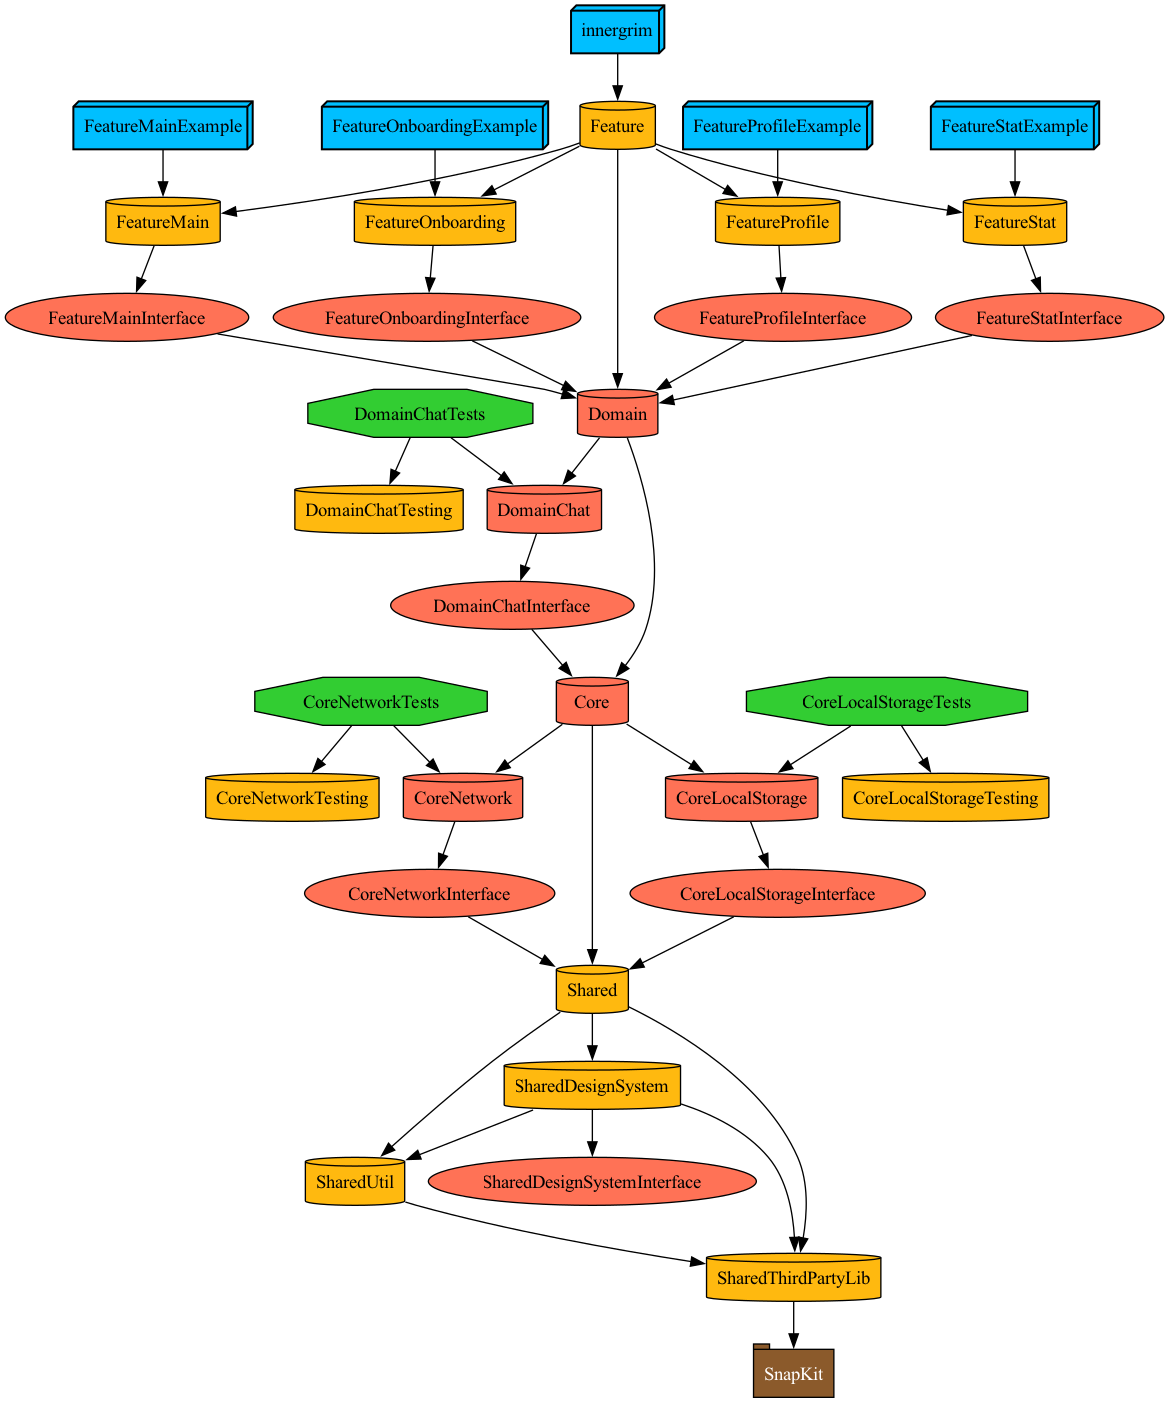
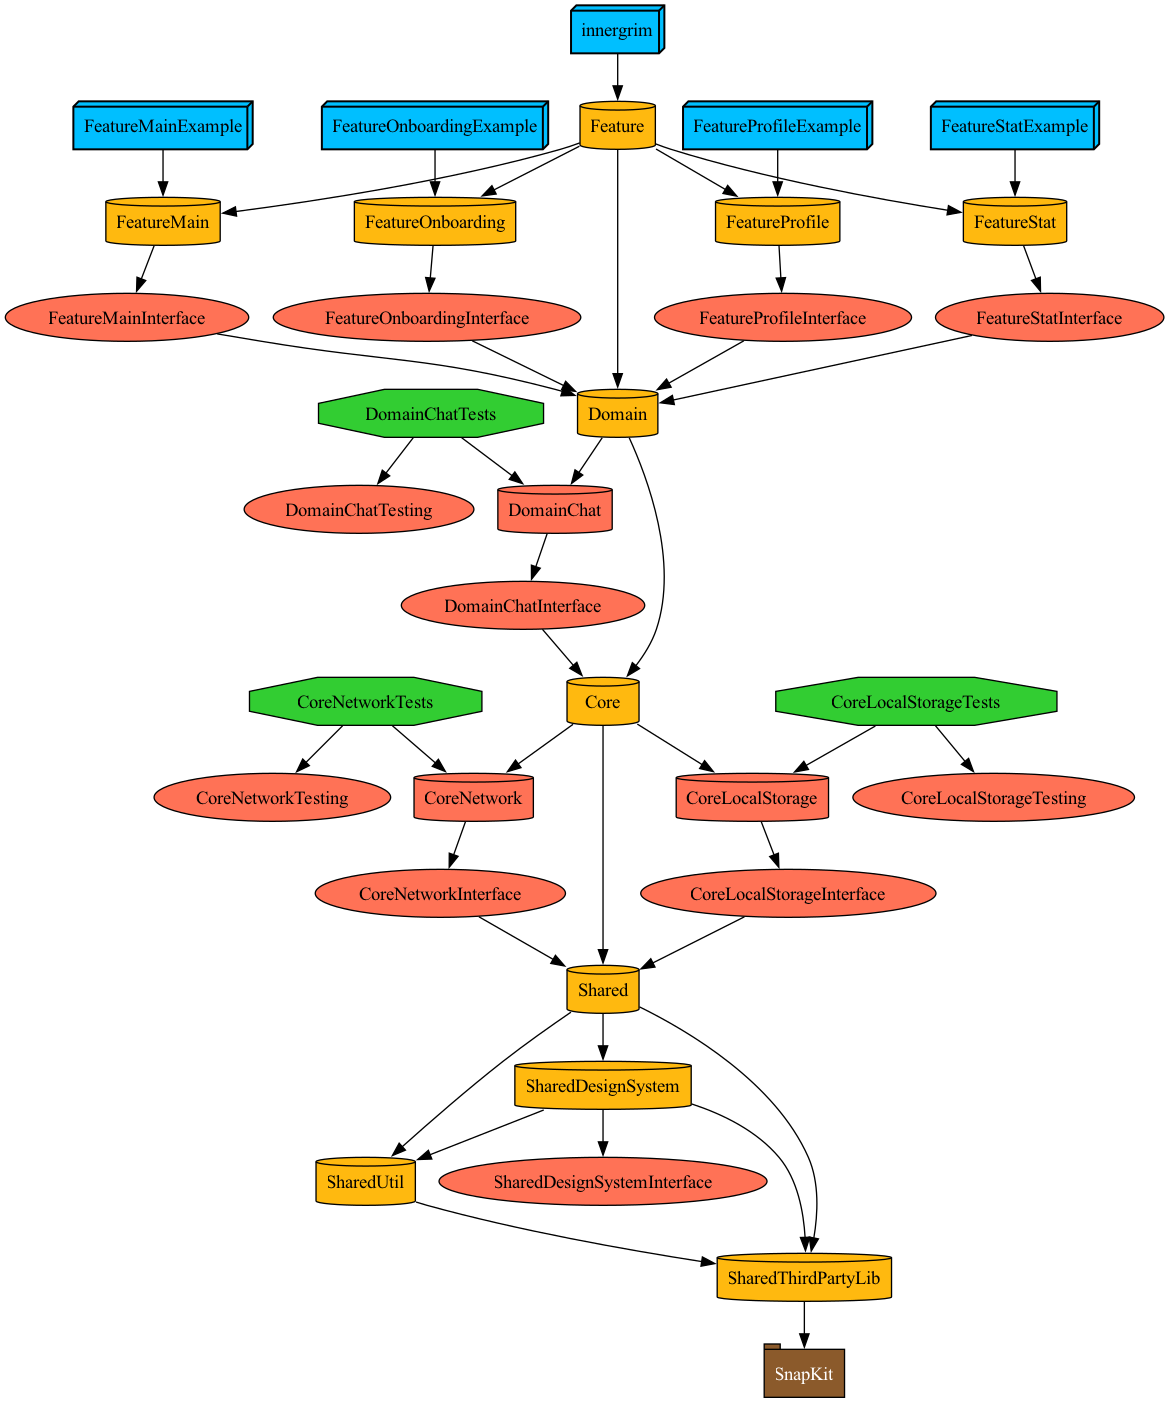
feat: 상위 모듈의 프로덕트를 .framework(dynamic)으로 변경

Changed region(s): [[0.1232, 0.2452, 0.9855, 0.9501], [0.6467, 0.9501, 0.7391, 1.0]]

diff --git a/Tuist/ProjectDescriptionHelpers/Target+Templates.swift b/Tuist/ProjectDescriptionHelpers/Target+Templates.swift
@@ -38,7 +38,7 @@ public struct TargetFactory {
     public init(
         name: String = "",
         destinations: Destinations = [.iPhone],
-        product: Product = .staticFramework,
+        product: Product = .staticLibrary,
         productName: String? = nil,
         bundleId: String? = nil,
         deploymentTargets: DeploymentTargets? = Project.Environment.deploymentTargets,
@@ -181,6 +181,7 @@ public extension Target {
 public extension Target {
     static func domain(factory: TargetFactory) -> Self {
         var newFactory = factory
+        newFactory.product = .framework
         newFactory.name = ModulePath.Domain.name
         newFactory.sources = .sources
 
@@ -189,6 +190,7 @@ public extension Target {
 
     static func domain(implements module: ModulePath.Domain, factory: TargetFactory) -> Self {
         var newFactory = factory
+        newFactory.product = .staticFramework
         newFactory.name = ModulePath.Domain.name + module.rawValue
         newFactory.sources = .sources
 
@@ -215,7 +217,7 @@ public extension Target {
 
     static func domain(testing module: ModulePath.Domain, factory: TargetFactory) -> Self {
         var newFactory = factory
-        newFactory.product = .framework
+        newFactory.product = .staticLibrary
         newFactory.name = ModulePath.Domain.name + module.rawValue + "Testing"
         newFactory.sources = .testing
 
@@ -228,6 +230,7 @@ public extension Target {
 public extension Target {
     static func core(factory: TargetFactory) -> Self {
         var newFactory = factory
+        newFactory.product = .framework
         newFactory.name = ModulePath.Core.name
         newFactory.sources = .sources
 
@@ -236,6 +239,7 @@ public extension Target {
 
     static func core(implements module: ModulePath.Core, factory: TargetFactory) -> Self {
         var newFactory = factory
+        newFactory.product = .staticFramework
         newFactory.name = ModulePath.Core.name + module.rawValue
         newFactory.sources = .sources
 
@@ -262,7 +266,7 @@ public extension Target {
 
     static func core(testing module: ModulePath.Core, factory: TargetFactory) -> Self {
         var newFactory = factory
-        newFactory.product = .framework
+        newFactory.product = .staticLibrary
         newFactory.name = ModulePath.Core.name + module.rawValue + "Testing"
         newFactory.sources = .testing
 
